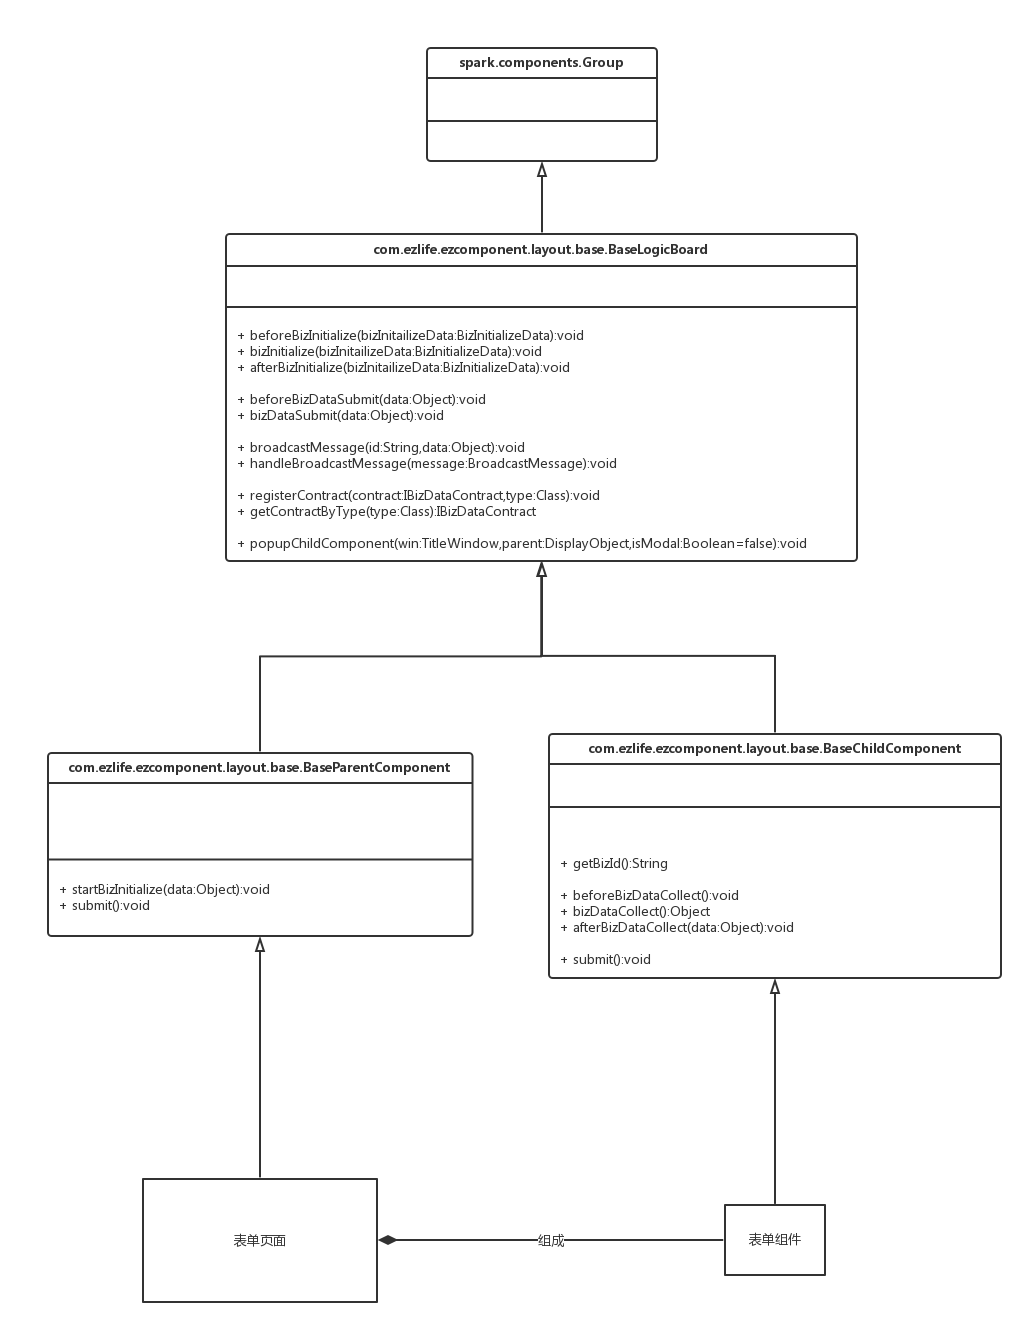
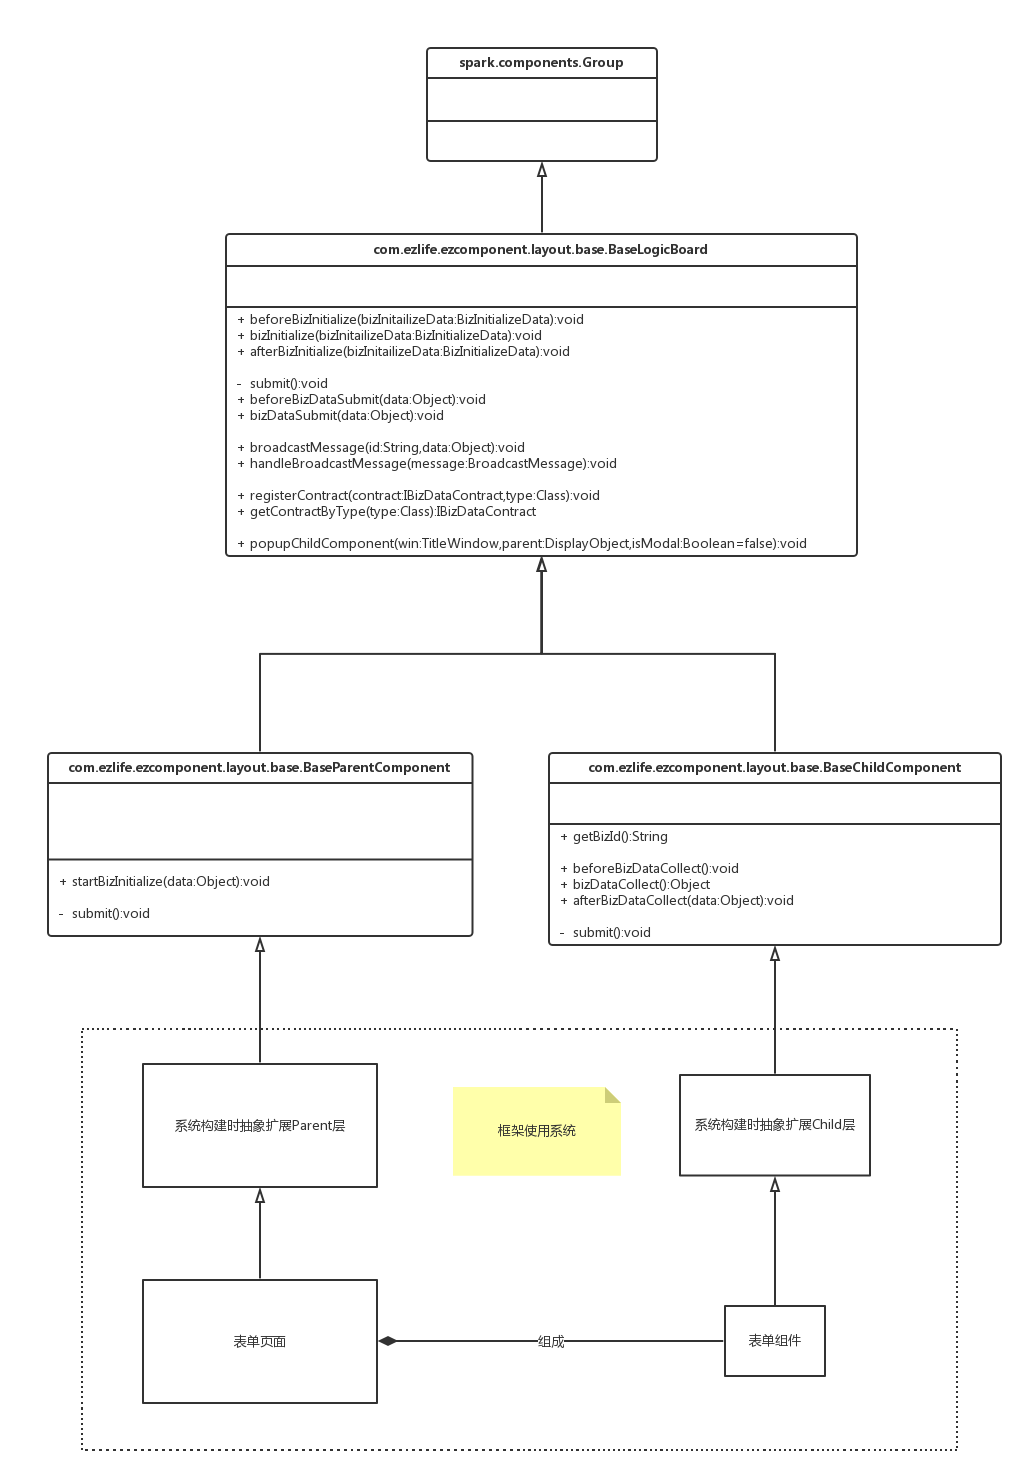
Write readme.md

diff --git a/README.md b/README.md
@@ -12,5 +12,75 @@ Flex的开发者都知道，Flex已经有几个成熟的框架了，比如PureMV
 - 表单数据提交
 - 表单数据提交后操作
 
-# 类图和序列图
+# 框架的UML描述
 ![image](https://github.com/tony1016/EzComponent/raw/master/res/ClassDiagram.png)
+
+具体来解释一下类图上的一些概念
+
+## 1.首先，框架分为页面和组件两种功能部件。页面是由组件组装构成的。
+无论是多页签布局也好，瀑布式的从上到下的表单布局也好，都是由一个页面和堆砌之上的组件构成的。
+![image](https://github.com/tony1016/EzComponent/raw/master/res/LayoutExample.png)
+
+所以，应用或者系统在使用框架时，也必须遵循继承于BaseParentComponent的作为主页面，而组件继承于BaseChildComponent的逻辑。但是一般，作为大型应用的话，会提供一个公共抽象层，再让各页面继承于自己的公共抽象层，来实现一些统一的控制。当然，如果仅有一两个页面的话，抽象层也可以不做。
+
+## 2.页面和组件究竟有什么不同？
+这还得从大家熟悉的场景来总结，一般来说，组件作为整个页面的一部分，可以有自己的逻辑行为，但一般不会进行全局提交动作。但是，作为最上层的页面，一般都会有一个按钮作为整个页面的提交动作。该提交动作一般会去收集所有组件的数据，并组装成一个数据包结构，发往后台。换句话说，框架考虑了一个最常用的表单的场景————组件承载了数据，页面负责合并且提交这些数据到后台。
+
+从类图上可以看到，作为组件基类的BaseChildComponent，有一套DataCollect，即数据收集方法，包括：
+- beforeBizDataCollect():void 数据收集前的回掉方法。抽象层可以在这里扩展出数据校验逻辑。
+- bizDataCollect():Object 数据收集方法，**注意返回了一个对象***作为最终收集到的数据。抽象层可以在这里扩展出统一的数据域收集方法，避免每个人都去做数据组装的动作。
+- afterBizDataCollect(data:Object):void 数据收集到后的回掉方案。抽象层可以对收集到的数据进行加工，补充一些隐藏数据等。
+
+另外，作为组件，还有一个用于区别自身的getBizId():String方法，用于在页面上众多的组件内来区别自身，默认是该组件的name属性，可以复写。在最终组装发送到后台的数据包时，该ID用来区别组件的数据快，具体可见后面的描述。
+
+作为页面BaseParentComponent基类，有一个方法 startBizInitialize(data:Object):void，它开始了整个页面和组件的业务逻辑初始化过程。一般会在页面的CreateComplete中调用它。
+作为页面和组件，都有submit()方法，但是其作用域不同。页面的submit要收集所有组件的数据，但是作为组件，只需要收集自己的数据。
+
+## 3.如何布局或者设置，才能让页面感知到组件的存在
+上面已经描述到，页面要发起全局数据初始化过程，还要从组件收集数据，那页面一定需要知道自己的所有组件的存在。如何配置或者布局，才能让页面感知到组件的存在呢？答案是不需要。EzComponent框架使用了Parsley框架的<parsley:Configure/>功能，因此，继承于BaseChildComponent的组件都会在合适时候通知页面：“我在这里”。
+
+## 4.数据初始化过程
+当页面调用startBizInitialize(data:Object):void方法后，整个框架开始了数据初始化过程。无论是页面也好，组件也好，初始化过程分为三个切面，且都可以拿到一致的初始化数据：
+- beforeBizInitialize(bizInitailizeData:BizInitializeData):void 数据初始化前的回掉方法。抽象层可以在这里，对初始化数据进行加工
+- bizInitialize(bizInitailizeData:BizInitializeData):void 数据进行初始化的切面。抽象层可以在这里统一进行域和数据的绑定过程。
+- afterBizInitialize(bizInitailizeData:BizInitializeData):void 数据初始化后的切面。抽象层可以在这里进行一些域的调整，比如只读域处理等。
+
+数据初始化过程不同于Flex组件初始化过程，因为这时可能有些组件自身都还处于未初始化阶段，因此EzComponent的初始化既照顾到同步数据初始化过程，又照顾到异步数据初始化过程。
+- 所谓同步数据初始化过程，是指数据初始化之前，组件已经完成了自身的Flex初始化过程
+- 所谓异步数据初始化过程，是指数据初始化之前，组件还未完成自身的Flex初始化过程。很简单的例子是，用户点击某个按钮，弹出一个对话框。此时早已经过了最早的数据初始化阶段。但是其三个初始化切面依然会被调用一次。框架不会漏掉这样的小兄弟^_^。
+
+## 5.数据提交过程
+无论是页面也好，组件也好，都有一个submit()方法，可以触发自身的提交切面，该切面包括：
+- beforeBizDataSubmit(data:Object):void 提交前切面。抽象层可以在这里进行统一的数据校验
+- bizDataSubmit(data:Object):void 数据提交切面。**抽象层必须复写该逻辑，来后台提交数据，否则会报异常**
+
+注意，submit()方法仅触发所在对象的两个切面。即如果是在页面上调用submit()就，仅触发页面自身的两个切面，组件同理。
+前面已经提到过，作为页面和组件，都有submit()方法，但是其作用域不同。页面的submit要收集所有组件的数据，但是作为组件，只需要收集自己的数据。主要是表现在最终的提交数据上：
+如果是页面提交，则拿到的数据格式为
+```json
+{
+    "component 1 bizID":{
+        "property 1":"value 1",
+        "property 2":"value 2",
+        ...
+    },
+    "component 2 bizID":{
+        "property 1":"value 1",
+        "property 2":"value 2",
+        ...
+    },
+
+    ...
+}
+```
+
+如果是组件提交，仅能拿到自身的数据结构
+```json
+{
+    "property 1":"value 1",
+    "property 2":"value 2",
+    ...
+}
+```
+
+数据组装成什么样，完全是组件自身的bizDataCollect():Object吐出什么样的数据格式。
